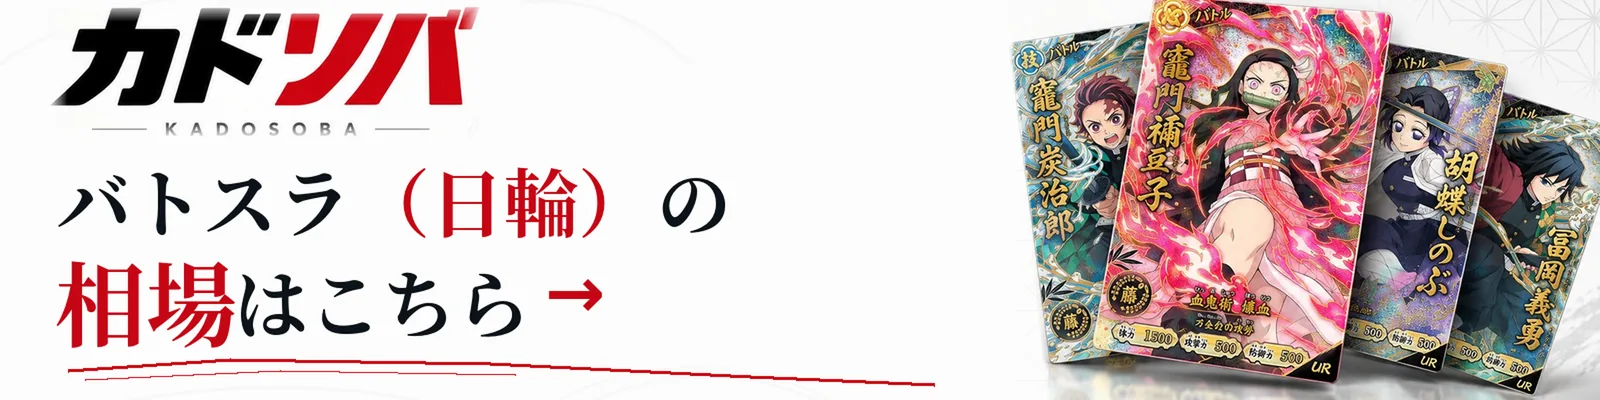
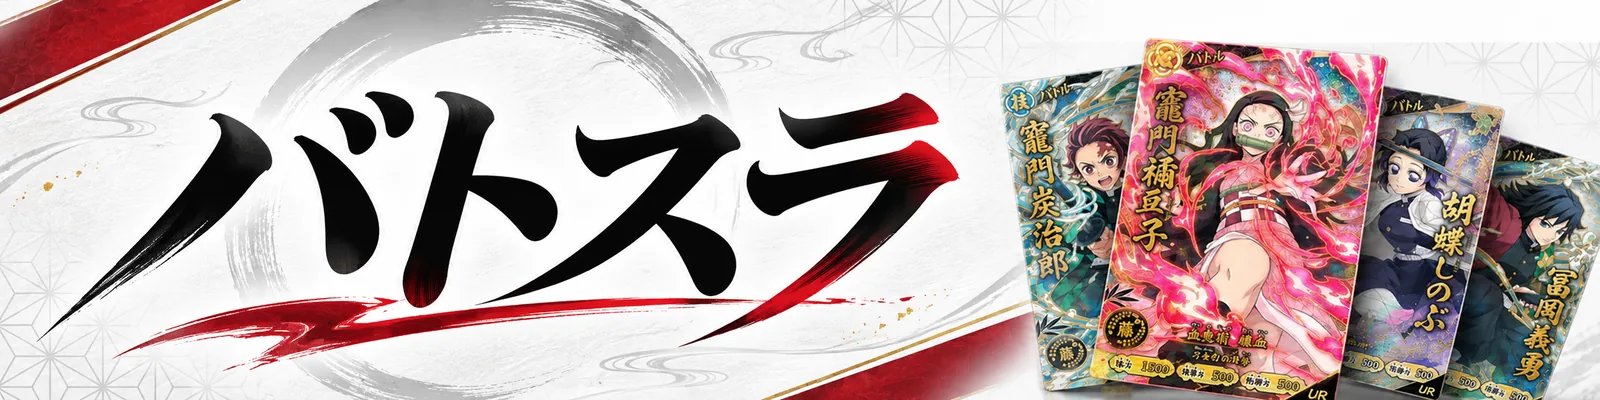
feat: 日輪へのボタンの画像を差し替える（バトスラ）
Claude-Session: https://claude.ai/code/session_01RCBVAmZLHPrN76hqp8LRHN

diff --git a/frontend/src/app/layout.tsx b/frontend/src/app/layout.tsx
@@ -86,7 +86,7 @@ export default function RootLayout({ children }: { children: React.ReactNode }) 
                 置く（2026-11-05、ユーザー指示）。相手のサイトの道なので next/link ではなく <a> */}
             <a className="sister-btn" href="https://kadosoba.com/" aria-label="バトスラ（日輪）の相場はこちら">
               {/* eslint-disable-next-line @next/next/no-img-element */}
-              <img src={asset("/sister/nichirin-banner-800.webp")} width={800} height={200} alt="バトスラ（日輪）の相場はこちら" decoding="async" />
+              <img src={asset("/sister/nichirin-banner-800.webp?v=2")} width={800} height={200} alt="バトスラ（日輪）の相場はこちら" decoding="async" />
             </a>
 
             <HeaderSearch />

diff --git a/docs/changelog.md b/docs/changelog.md
@@ -13,6 +13,14 @@
 
 ## 2026-11-05
 
+### 日輪へのボタンの画像を差し替えた
+
+何を: ヘッダーの日輪へのボタンの画像を、ユーザーが用意した「バトスラ」の画像（2508×627、4:1）に差し替えた
+（`public/sister/nichirin-banner-800/1600.webp`、38KB/115KB。src に ?v=2 を付けて古い画像が残らないようにした）。
+比率は前と同じ 4:1 なので、ボタンの大きさは変わらない（高さ 32px → 横 128px、スマホ 28px → 112px）。
+
+なぜ: ユーザー指示「次これ差し替え」。
+
 ### 日輪へのボタンの横幅を画像の縦横比に合わせる形にした
 
 何を: `.sister-btn img` の縦横比の決め打ち（4:1）を外し、画像の比率のままにした（日輪側でアイカツの画像を 3:1 に
